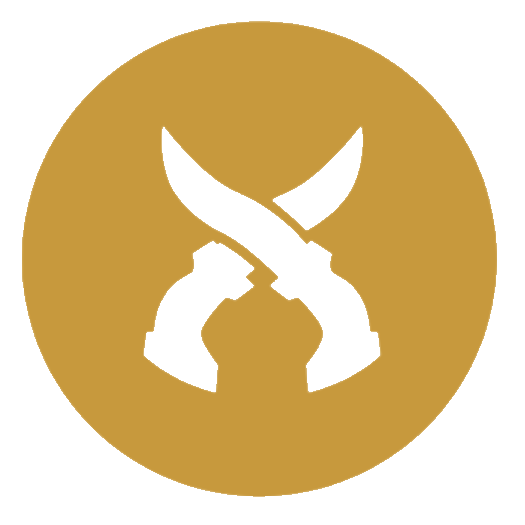
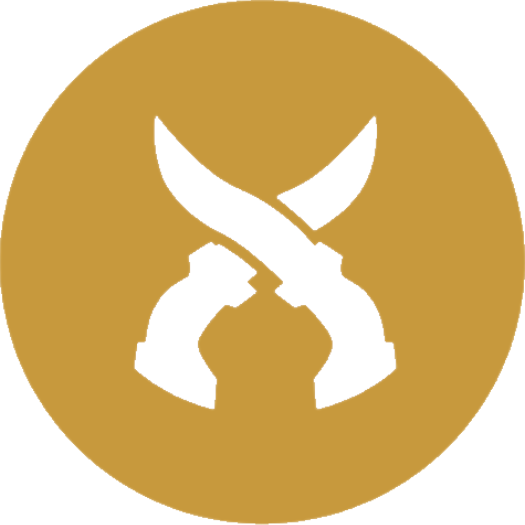
Added Ecaz & Moritani Factions

diff --git a/funct.js b/funct.js
@@ -29,6 +29,8 @@ leadervalues[7] = new Array(0, 5, 3, 3, 2, 1)
 leadervalues[8] = new Array(0, 0, 4, 3, 2, 1)
 leadervalues[9] = new Array(0, 4, 4, 3, 3, 2, 2)
 leadervalues[10] = new Array(0, 5, 4, 3, 2, 2)
+leadervalues[11] = new Array(0, 6, 5, 4, 4, 2, 1)
+leadervalues[12] = new Array(0, 6, 4, 4, 3, 3, 2)
 
 function calcStr() {
   var faction = $( "#faction" ).children("option:selected").val()
@@ -36,6 +38,7 @@ function calcStr() {
   var stars = parseInt($( "#stars" ).val())
   var spice = parseInt($( "#spice" ).val())
   var karamaed = $( '#karamaed' ).is(":checked")
+  var ecazforces = parseInt($( "#ecaz-forces" ).val())
   var strength = 0
 
   switch (faction) {
@@ -56,7 +59,7 @@ function calcStr() {
   }
   //$( "#strength" ).val( strength.toString() )
   document.getElementById('strength').innerHTML = strength;
-  var totalstrength = (strength + leaderstrength + kwisatzbonus)
+  var totalstrength = (strength + leaderstrength + kwisatzbonus) + Math.ceil(ecazforces / 2)
   //$( "#total-strength" ).val( totalstrength.toString() )
   document.getElementById('total-strength').innerHTML = totalstrength;
 }
@@ -120,8 +123,10 @@ function noleaderclick(){
 		$( "#captured-leader-column" ).removeClass( "is-hidden" )
 		$( "#captured-leader-button" ).attr("src", `img/leaders/ghola.png`)
 		break
-		//CHOAM
+		//CHOAM Moritani or Ecaz
 		case '9':
+		case '11':
+		case '12':
 		$( "#leader6-column" ).removeClass( "is-hidden" )
 		$( "#leader6-button" ).attr("src", `img/leaders/${faction}-leader-6.png`)
 		break
@@ -141,6 +146,7 @@ function plustrigger(id){
 	var forcestmp = parseInt($( "#forces" ).val())
 	var spicetmp = parseInt($( "#spice" ).val())
 	var starstmp = parseInt($( "#stars" ).val())
+	var ecaztmp = parseInt($( "#ecaz-forces" ).val())
 	
 	switch (id) {
 		case 'forces':
@@ -228,6 +234,13 @@ function plustrigger(id){
 				break
 			}
 		break
+		case 'ecaz-forces':
+			if (ecaztmp < 20) {
+				ecaztmp = ecaztmp + 1
+				$( "#ecaz-forces" ).val( ecaztmp.toString() )
+				calcStr()
+			}
+		break
 	}
 }
 
@@ -235,6 +248,7 @@ function minustrigger(id){
 	var forcestmp = parseInt($( "#forces" ).val())
 	var spicetmp = parseInt($( "#spice" ).val())
 	var starstmp = parseInt($( "#stars" ).val())
+	var ecaztmp = parseInt($( "#ecaz-forces" ).val())
 	
 	switch (id) {
 		case 'forces':
@@ -274,6 +288,13 @@ function minustrigger(id){
 						}	
 					break
 				}
+				calcStr()
+			}
+		break
+		case 'ecaz-forces':
+			if (ecaztmp > 0) {
+				ecaztmp = ecaztmp - 1
+				$( "#ecaz-forces" ).val( ecaztmp.toString() )
 				calcStr()
 			}
 		break
@@ -418,13 +439,46 @@ function validateSpice() {
 
 }
 
-function incfield(fieldname) {
-	console.log(fieldname)
-	
-}
+function sortSpiceAndEcaz() {
+	var margsw = document.querySelector(':root');
 
-function decfield() {
+	if (!($( '#karamaed' ).is(":checked")) && !($( '#ecaz-ally' ).is(":checked"))) {
+		$( "#total-strength-label").html( "Total Strength<br>(Dialed Strength + Leader)" )
+		$( "#ecaz-forces-column" ).addClass( "is-hidden" )
+		$( "#ecaz-forces" ).val( "0" )
+		$( "#spice-column" ).addClass( "is-hidden" )
+		$( "#spice" ).val( "0" )
+		margsw.style.setProperty('--star-margin-left', '0px')
 	
+	} else if (($( '#karamaed' ).is(":checked")) && !($( '#ecaz-ally' ).is(":checked"))) {
+		$( "#total-strength-label").html( "Total Strength<br>(Dialed Strength + Leader)" )
+		$( "#ecaz-forces-column" ).addClass( "is-hidden" )
+		$( "#ecaz-forces" ).val( "0" )
+		$( "#spice-column" ).removeClass( "is-hidden" )
+		margsw.style.setProperty('--star-margin-left', 'auto')
+		//margsw.style.setProperty('--star-margin-right', 'auto')
+		margsw.style.setProperty('--spice-margin-left', '0px')
+		//margsw.style.setProperty('--spice-margin-right', 'auto')
+	
+	} else if (!($( '#karamaed' ).is(":checked")) && ($( '#ecaz-ally' ).is(":checked"))) {
+		$( "#total-strength-label").html( "Total Strength<br>(Dialed Strength + Leader + Ecaz Support)" )
+		$( "#ecaz-forces-column" ).removeClass( "is-hidden" )
+		$( "#spice-column" ).addClass( "is-hidden" )
+		$( "#spice" ).val( "0" )
+		margsw.style.setProperty('--star-margin-left', 'auto')
+		//margsw.style.setProperty('--star-margin-right', 'auto')
+		
+	} else {
+		$( "#total-strength-label").html( "Total Strength<br>(Dialed Strength + Leader + Ecaz Support)" )
+		$( "#ecaz-forces-column" ).removeClass( "is-hidden" )
+		$( "#spice-column" ).removeClass( "is-hidden" )
+		margsw.style.setProperty('--star-margin-left', 'auto')
+		//margsw.style.setProperty('--star-margin-right', 'auto')
+		margsw.style.setProperty('--spice-margin-left', 'auto')
+		//margsw.style.setProperty('--spice-margin-right', 'auto')
+	}
+    
+	calcStr()
 }
 
 jQuery( document ).ready(function($) {
@@ -442,13 +496,19 @@ jQuery( document ).ready(function($) {
 	$( "#total-strength-column" ).addClass( "is-hidden" )
     $( "#karamaed-container" ).addClass( "is-hidden" )
     $( "#karamaed" ).prop( "checked", false )
+	$( "#ecaz-forces-column" ).addClass( "is-hidden" )
+	$( "#ecaz-ally-container" ).removeClass( "is-hidden" )
+    $( "#ecaz-ally" ).prop( "checked", false )
+	$( "#ecaz-forces" ).val("0")
     $( "#forces" ).val("0")
     $( "#stars" ).val("0")
     $( "#spice" ).val("0")
     $( "#strength" ).val("0")
     $( "#faction-icon" ).attr("src", `img/${faction}.png`)
 	var margsw = document.querySelector(':root');
-	margsw.style.setProperty('--star-margin', 'auto')
+	margsw.style.setProperty('--star-margin-left', 'auto')
+	margsw.style.setProperty('--spice-margin-left', '0px')
+	$( "#total-strength-label").html( "Total Strength<br>(Dialed Strength + Leader)" )
 
 	calcStr()
 	
@@ -479,7 +539,7 @@ jQuery( document ).ready(function($) {
       // Fremen
       case '4':
         // console.log("fremen")
-		margsw.style.setProperty('--star-margin', '0px')
+		margsw.style.setProperty('--star-margin-left', '0px')
         $( "#forces-label" ).text( "Ordinary Forces" )
         $( "#stars-label" ).text( "Fedaykin (★)" )
         $( "#forces" ).attr( "max", 17 )
@@ -496,6 +556,14 @@ jQuery( document ).ready(function($) {
         $( "#forces" ).attr( "max", 13 )
         $( "#stars" ).attr( "max", 7 )
         $( "#stars-column" ).removeClass( "is-hidden" )
+		break
+	  // Ecaz
+	  case '12':
+	    $( "#forces-label" ).text( "Forces" )
+        $( "#stars-label" ).text( "" )
+        $( "#forces" ).attr( "max", 20 )
+        $( "#stars" ).attr( "max", 0 )
+		$( "#ecaz-ally-container" ).addClass( "is-hidden" )
         break
       // Other factions
       default:
@@ -510,6 +578,7 @@ jQuery( document ).ready(function($) {
   })
 
   $( "#karamaed" ).on("change", function(){
+	  /*
 	var margsw = document.querySelector(':root');
     if ($( '#karamaed' ).is(":checked")) {
 	  margsw.style.setProperty('--star-margin', 'auto')
@@ -520,7 +589,48 @@ jQuery( document ).ready(function($) {
     }
     $( "#spice" ).val( "0" )
     calcStr()
+	*/
+	sortSpiceAndEcaz()
   })
+  
+  $( "#ecaz-ally" ).on("change", function(){
+
+	  /*
+	var margsw = document.querySelector(':root');
+	$( "#ecaz-forces-column" ).removeClass( "is-hidden" )
+    if ($( '#ecaz-ally' ).is(":checked")) {
+			margsw.style.setProperty('--star-margin-left', 'auto')
+			margsw.style.setProperty('--star-margin-right', 'auto')
+		if ($( '#karamaed' ).is(":checked")) {
+			margsw.style.setProperty('--spice-margin-left', 'auto')
+			margsw.style.setProperty('--spice-margin-right', 'auto')
+		} else {
+			margsw.style.setProperty('--spice-margin-left', '0px')
+			margsw.style.setProperty('--spice-margin-right', 'auto')
+		}
+    } else {
+		margsw.style.setProperty('--spice-margin-left', '0px')
+		$( "#ecaz-forces-column" ).addClass( "is-hidden" )
+    }
+    $( "#ecaz-forces" ).val( "0" )
+    calcStr()
+	*/
+	var margsw = document.querySelector(':root');
+	if ( $( "#faction" ).children( "option:selected" ).val() == 4){
+		sortSpiceAndEcaz()
+	} else if ($( '#ecaz-ally' ).is(":checked")) {
+		$( "#total-strength-label").html( "Total Strength<br>(Dialed Strength + Leader + Ecaz Support)" )
+		margsw.style.setProperty('--spice-margin-left', 'auto')
+		$( "#ecaz-forces-column" ).removeClass( "is-hidden" )
+	} else {
+		$( "#total-strength-label").html( "Total Strength<br>(Dialed Strength + Leader)" )
+		$( "#ecaz-forces-column" ).addClass( "is-hidden" )
+		margsw.style.setProperty('--spice-margin-left', '0px')
+		$( "#ecaz-forces" ).val( "0" )
+	}
+  })
+  
+  
 
   $( "#forces, #stars, #spice" ).on("change", function(){
     validateForces()

diff --git a/index.html b/index.html
@@ -62,6 +62,8 @@
                     <option value="10">Richese</option>
                     <option value="7">Spacing Guild</option>
                     <option value="8">Tleilaxu</option>
+					<option value="11">Moritani</option>
+					<option value="12">Ecaz</option>
                   </select>
                 </div>
               </div>
@@ -105,10 +107,16 @@
                
               </div>
             </div>
-			
+			 <div class="column is-hidden" id="ecaz-forces-column">
+              <div class="grid-container-pack-ecaz-forces">
+			  <div class="grid-pack-input"><input class="input is-rounded has-text-centered" name="ecaz-forces" id="ecaz-forces" readonly></div>
+				<div class="grid-pack-plus"><img src="img/plusbutton.png" id="plus-button" onclick="plustrigger('ecaz-forces')"></div>
+				 <div class="grid-pack-label"><label id="ecaz-forces-label" class="label">Ecaz Forces</label></div>
+			  <div class="grid-pack-minus"><img src="img/minusbutton.png" id="minus-button" onclick="minustrigger('ecaz-forces')"></div>
+            </div>
           </div>
-	  
-          <div class="is-hidden" id="karamaed-container">
+		  </div>
+		   <div class="is-hidden" id="karamaed-container">
             <center>
               <label class="checkbox">
                 <input type="checkbox" id="karamaed" name="karamaed">
@@ -118,7 +126,18 @@
               </label>
             </center>
           </div>
-          <div class="columns is-multiline is-mobile has-text-centered is-centered">
+		   <div class="is-hidden" id="ecaz-ally-container">
+            <center>
+              <label class="checkbox">
+                <input type="checkbox" id="ecaz-ally" name="ecaz-ally">
+                <div class="tooltip">Allied to Ecaz
+                  <span class="tooltiptext">Half of Ecaz forces present (rounded up) will be counted to the total stength.</span>
+                </div>
+              </label>
+            </center>
+          </div>
+		  <br>
+		           <div class="columns is-multiline is-mobile has-text-centered is-centered">
             <div class="column is-one-third-tablet is-two-thirds-mobile is-hidden" id="strength-column">
               <div class="field has-text-centered">
 				<label id="strength" class="label">0</label>
@@ -127,7 +146,7 @@
             </div>
           </div>
 		  <div class="columns is-multiline is-mobile has-text-centered is-centered">
-            <div class="column  is-one-third-tablet is-two-thirds-mobile is-hidden" id="total-strength-column">
+            <div class="column  is-two-third-tablet is-one-thirds-mobile is-hidden" id="total-strength-column">
               <div class="field has-text-centered">
 				<label id="total-strength" class="label big">0</label>
                 <label id="total-strength-label" class="label" for="total-strength">Total Strength<br>(Dialed Strength + Leader)</label>

diff --git a/what.html b/what.html
@@ -57,6 +57,12 @@
 	  
 	  <big>Changelog</big>
 	  <br>
+	  <chlogvers>1.6 - 19.10.2023</chlogvers><br>
+	  <ul>
+	  <li>- Added Ecaz & Moritani factions, icons created by <a href="https://de.fiverr.com/mei_und_mao">Anja</a></li>
+	  <li>- Added Ecaz ally combat support </li>
+	  </ul>
+	  <br>
 	  <chlogvers>1.5 - 13.07.2023</chlogvers><br>
 	  <ul>
 	  <li>- Piter De Vries was mistakenly valued at 4, is now correct at 3</li>
@@ -101,6 +107,8 @@
 	 <li>- <b>Styling changes</b>: I'm not a web-designer and as such my css stylings may be pretty crap for mobile devices. That could be improved I bet. As it is, it works on my desktop and my mobile phone.</li>
 	<li>- <b>Nicer leader icons</b>: The icons that are in it now are fine, but they could be better and for some factions are hard to read. I can't use scans of the original because I would probably run into copyright problems. I want to keep the shape and style of the originals though to help with fast recognition in the game.</li>
 	<li>- <b>Basic mode</b>: These options are for advanced mode and that was the whole reason for Erelyks to create the base-page. Now I aspire that this could replace the battle wheel all together and as such it would need a basic mode switch.</li>
+	<li>- <b>Homeworlds</b>: The latest expansion Ecaz & Moritani brought a new homeworlds module to the game. That changes some things sometimes, which will be accounted for.</li>
+	<li>- <b>E&M Treachery</b>: The latest treachery cards can sometimes alter the battle values. Needs to be implemented.</li>
 	  </ul>
 	  </section>
   </body>

diff --git a/styles.css b/styles.css
@@ -1,5 +1,8 @@
 :root {
-	--star-margin: auto;
+	--star-margin-left: auto;
+	--star-margin-right: auto;
+	--spice-margin-left: 0px;
+	--spice-margin-right: auto;
 }
 
 .tooltip {
@@ -157,14 +160,23 @@ chlogvers {
 
 .grid-container-pack-starred {
 	display: grid;
-	margin-left: var(--star-margin);
-	margin-right: auto;
+	margin-left: var(--star-margin-left);
+	margin-right:  var(--star-margin-right);
 	grid-template-areas: "plus input minus" "label label label";
 	grid-template-columns: 1fr 1fr 1fr;
 	max-width: 200px;
 }
 
 .grid-container-pack-spice {
+	display: grid;
+	margin-left:  var(--spice-margin-left);
+	margin-right:  var(--spice-margin-right);
+	grid-template-areas: "plus input minus" "label label label";
+	grid-template-columns: 1fr 1fr 1fr;
+	max-width: 200px;
+}
+
+.grid-container-pack-ecaz-forces {
 	display: grid;
 	margin-left: 0px;
 	margin-right: auto;
@@ -184,6 +196,15 @@ chlogvers {
 }
 
 .grid-container-pack-spice {
+	display: grid;
+	margin-left: auto;
+	margin-right: auto;
+	grid-template-areas: "plus input minus" "label label label";
+	grid-template-columns: 1fr 1fr 1fr;
+	max-width: 200px;
+}
+
+.grid-container-pack-ecaz-forces {
 	display: grid;
 	margin-left: auto;
 	margin-right: auto;
